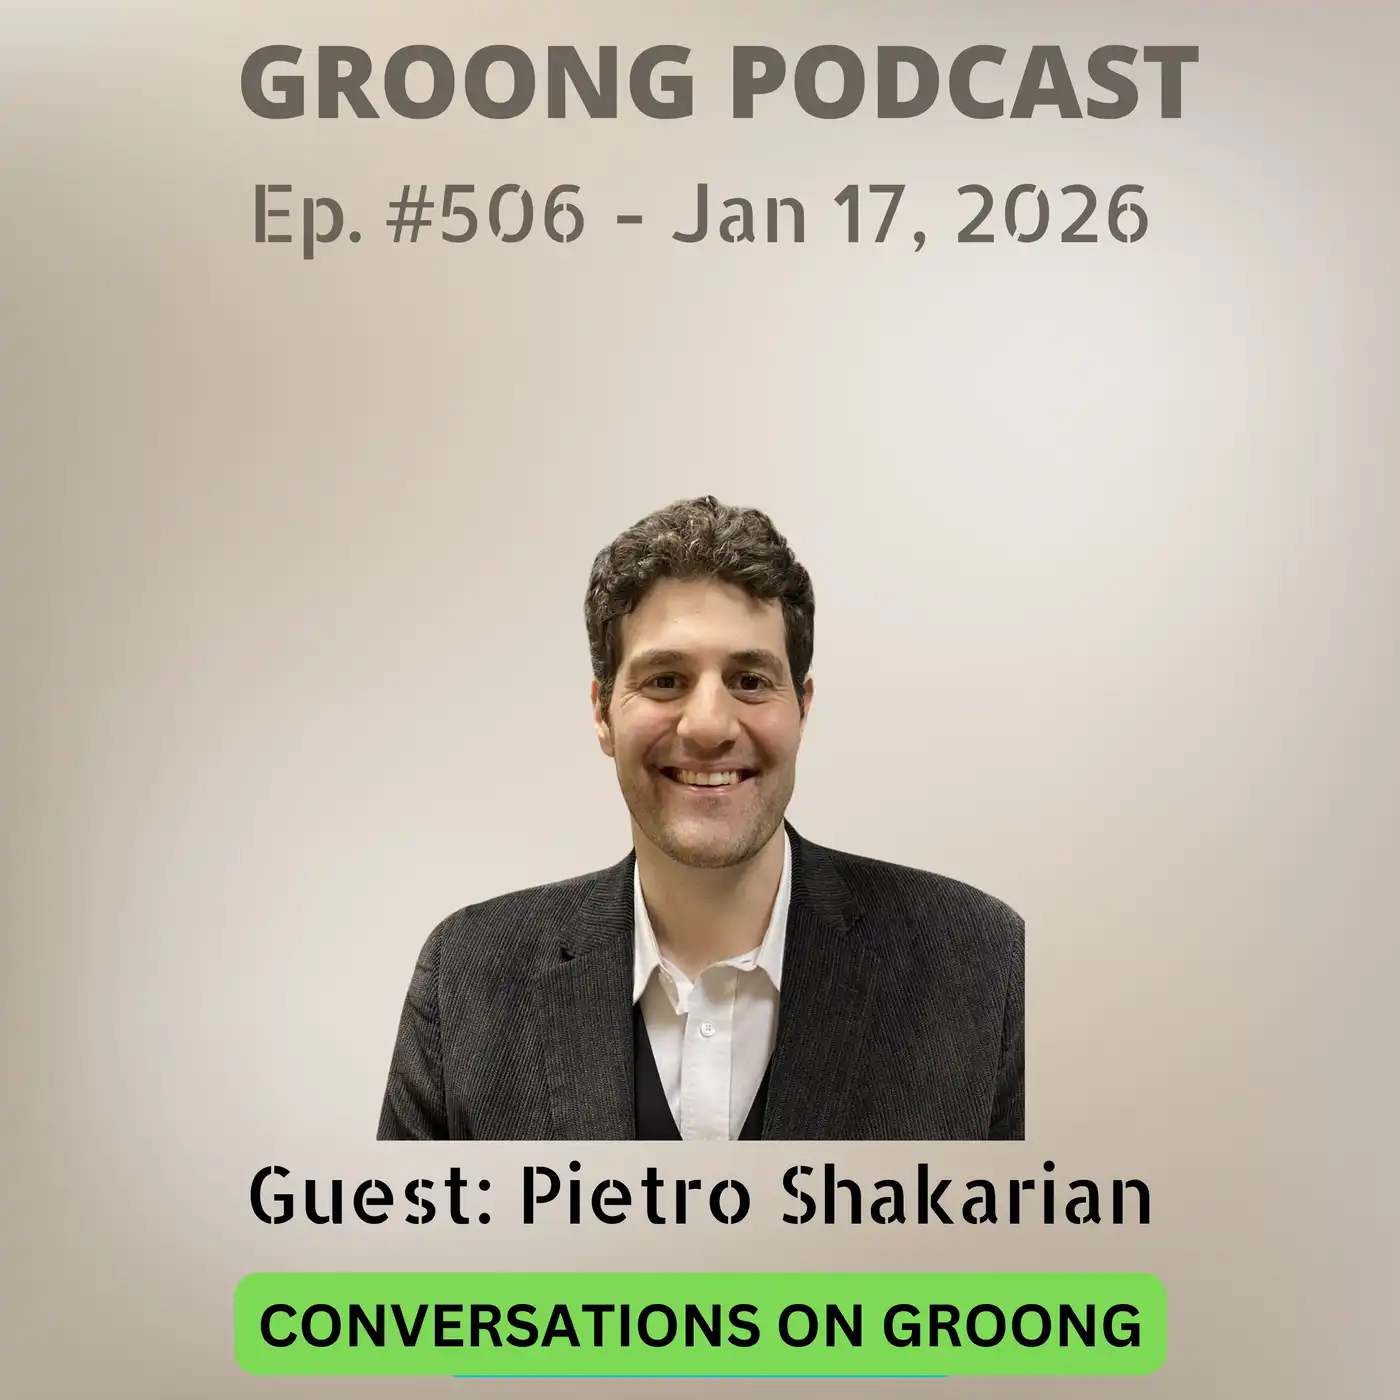
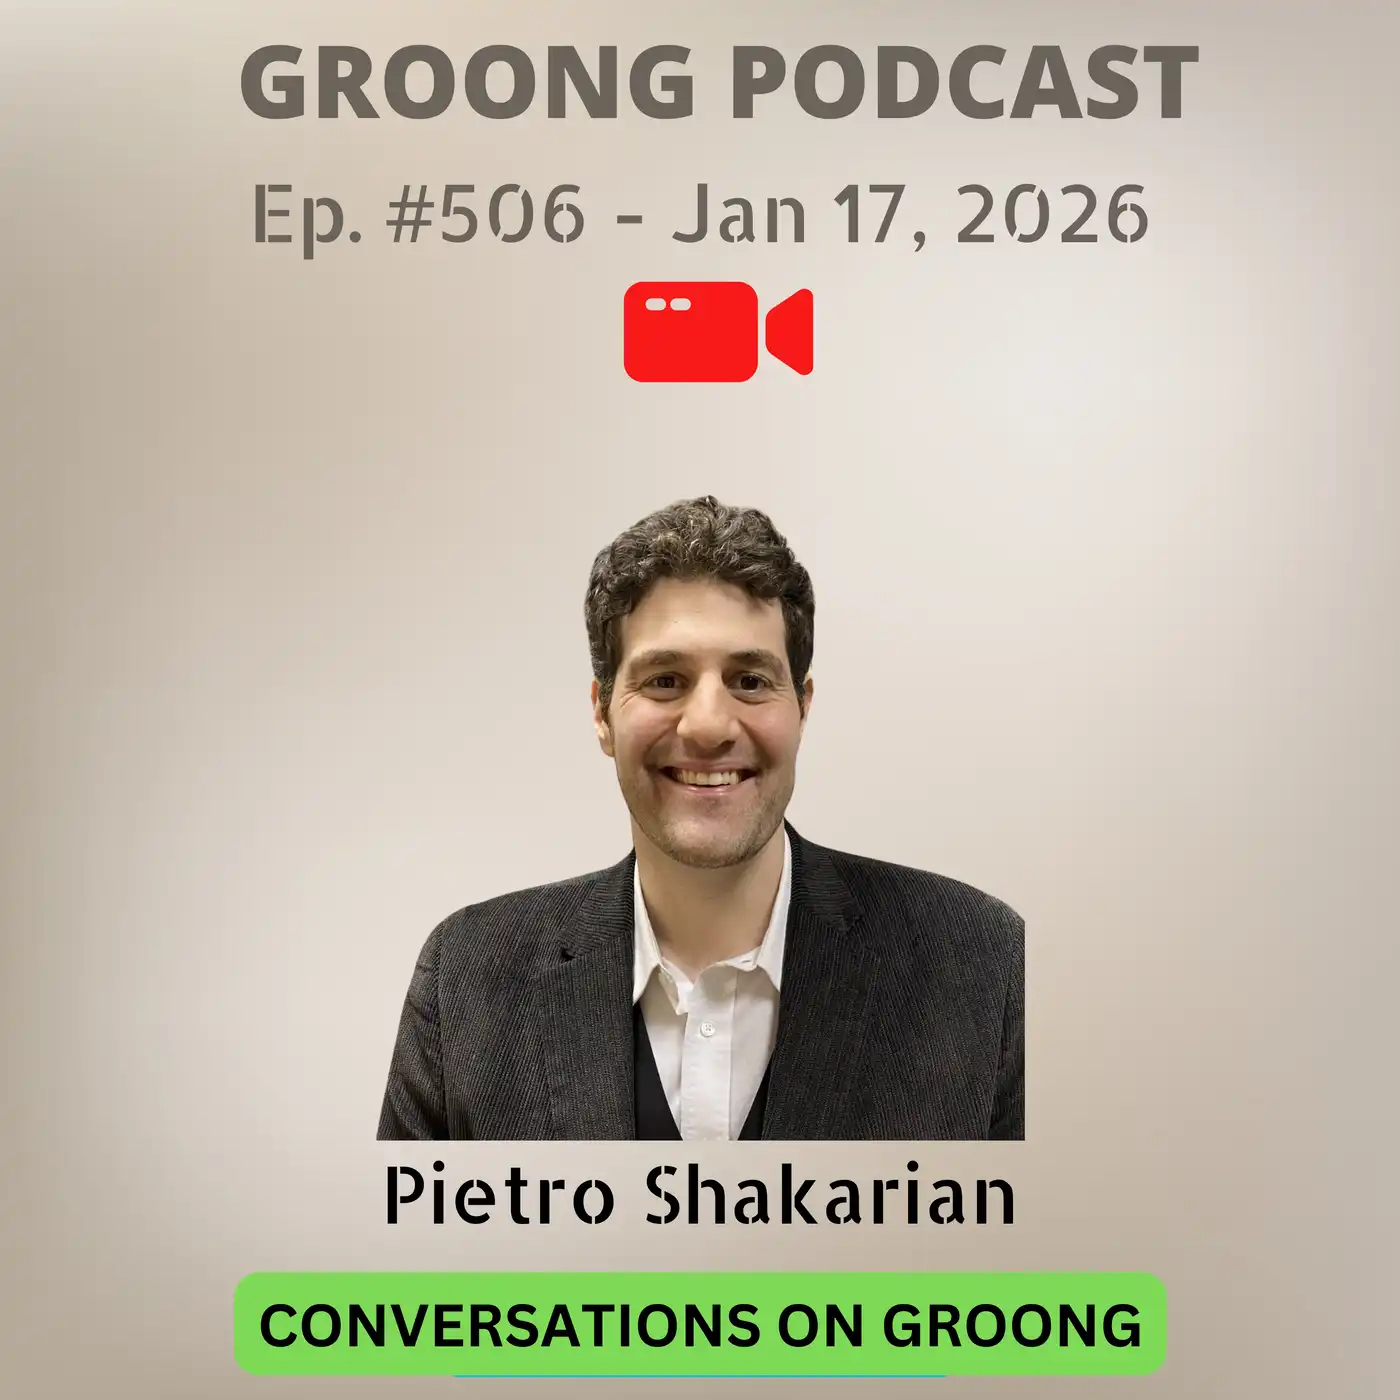
Staging Ep 507 with Anna Grigoryan, MP. Updating thumbnail 506.

Changed region(s): [[0.1536, 0.8293, 0.8293, 0.8907], [0.43, 0.1843, 0.5836, 0.2764]]

diff --git a/content/episode/507-anna-grigoryan-armenia-power-politics-tripp-pow-freed-2026-parliamentary-election-attacks-on-church.md b/content/episode/507-anna-grigoryan-armenia-power-politics-tripp-pow-freed-2026-parliamentary-election-attacks-on-church.md
@@ -1,0 +1,62 @@
++++
+Date = 2026-01-18T04:00:00-07:00
+upcoming = true
+
+title = "Anna Grigoryan - Freed Hostages, Pashinyan vs. Churc, TRIPP, Parliamentary Elections | Ep 507, Jan 18, 2026"
+subtitle = "Conversations on Groong - Recorded on: January 16, 2026"
+author = "Armenian News Network - Groong"
+
+podcast_file = ""
+podcast_duration = ""
+podcast_bytes = ""
+youtube = ""
+
+hosts = ["asbed", "hovik"]
+guests = ["agrigoryan"]
+
+episode_image = "img/episode/507/thumbnail-507.webp"
+episode_banner = "img/episode/507/banner-507.webp"
+images = ["img/episode/507/banner-507.webp"]
+
+episode = "507"
+aliases = ["/507"]
+
+truncate = ""
+series = ["COG"]
+categories = ["Armenia", "Artsakh","Election"]
+tags = ["Armenian News", "Armenia", "Anna Grigoryan", "Artsakh", "Nagorno Karabakh", "Armenian Church", "Apostolic Church", "TRIPP", "Zangezur Corridor", "Donald Trump", "Ilham Aliyev", "Hayastan Dashinq", "Armenia Alliance", "Pativ Unem", "Wings of Unity", "Mer Dzevov", "Samvel Karapetyan", "Narek Karapetyan", "Arman Tatoyan", "Civil Contract"]
+
+
+Description = """
+
+#### Groong Links:
+* [GIVE to GROONG](https://podcasts.groong.org/donate)
+* [linktr.ee/Groong](https://linktr.ee/groong)
+
+#### Guest:
+* [Anna Grigoryan, MP, Hayastan Dashinq](/guest/agrigoryan)
+
+#### Topics:
+* Return of Four Hostages
+* Pashinyan vs. Church
+* TRIPP
+* Armenia Parliamentary Election
+
+
+Episode 507 | Recorded on January 14, 2026"""
+
++++
+
+
+
+# Wrap-up
+
+### **Don't forget to support us:**
+* [Patreon - Support Groong](https://www.patreon.com/ann_groong)
+* [Buy Me a Coffee - Support Groong](https://www.buymeacoffee.com/groong)
+
+
+That’s our [show](https://podcasts.groong.org/)! We hope you found it useful. Please find us on [Social Media](https://linktr.ee/groong) and follow us everywhere you get your Armenian news.
+
+Thanks to **Laura Osborn** for the music on our podcasts.
+
